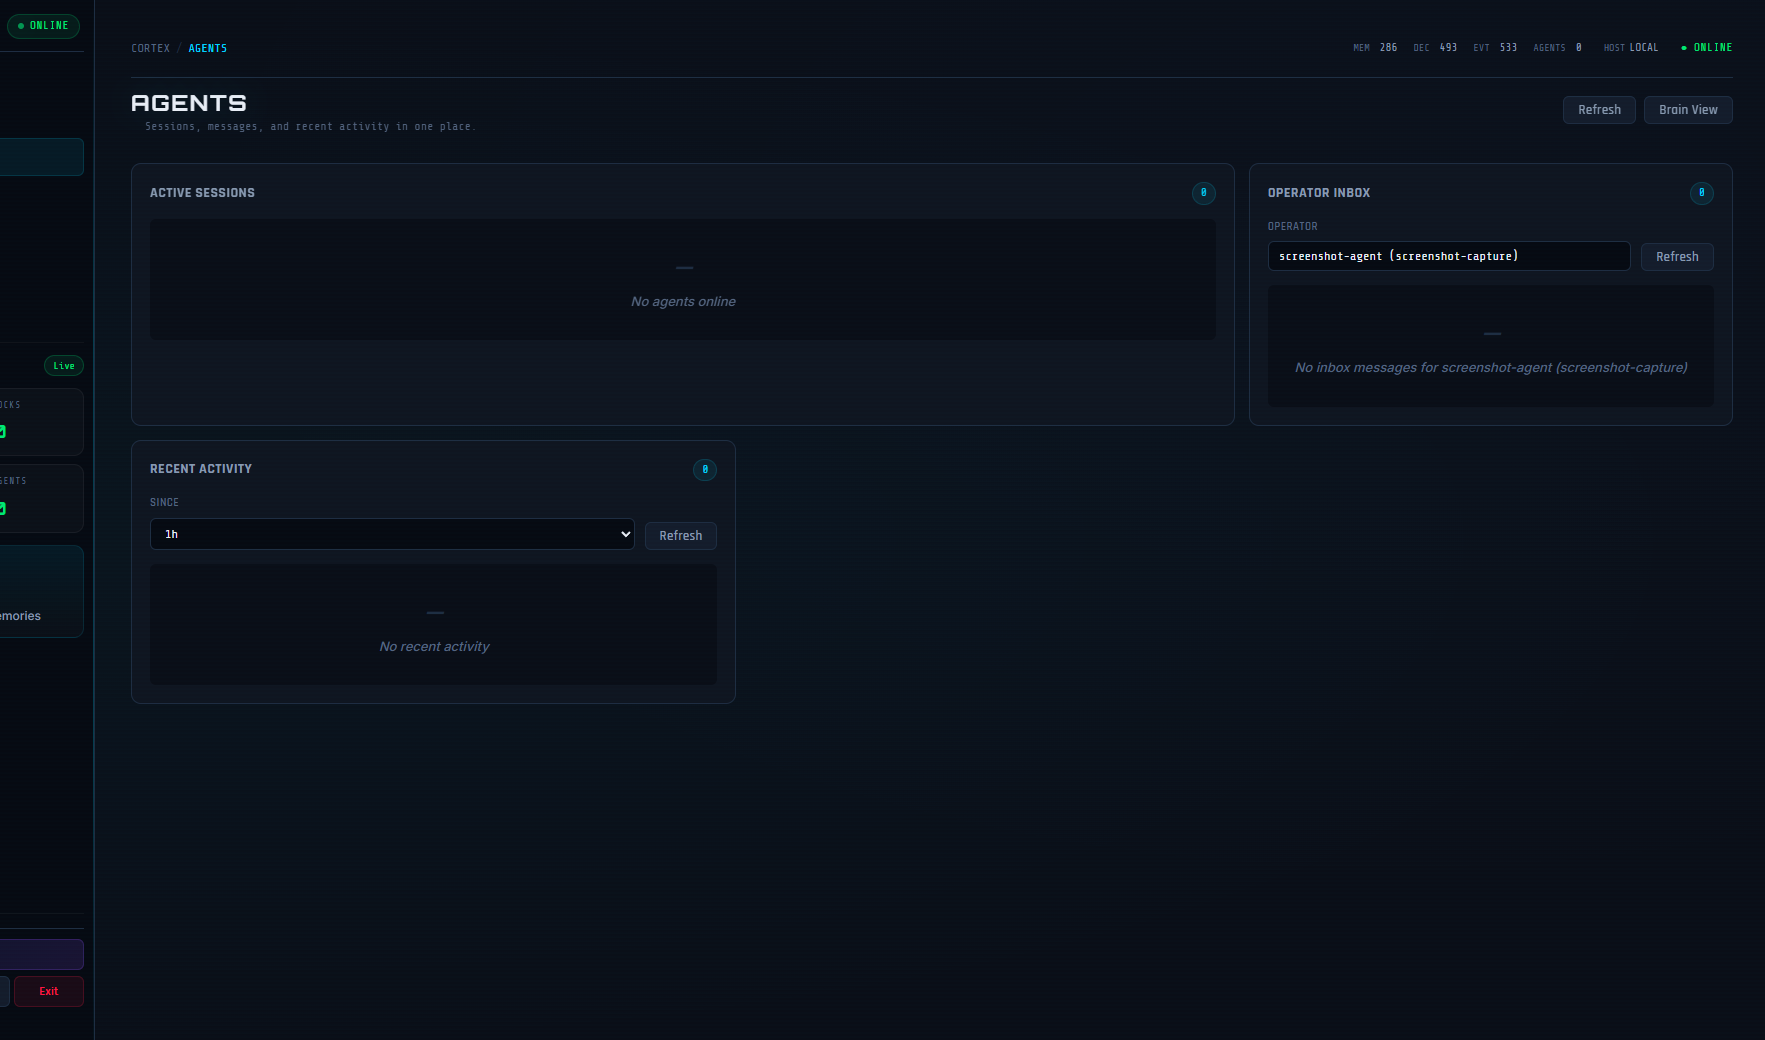
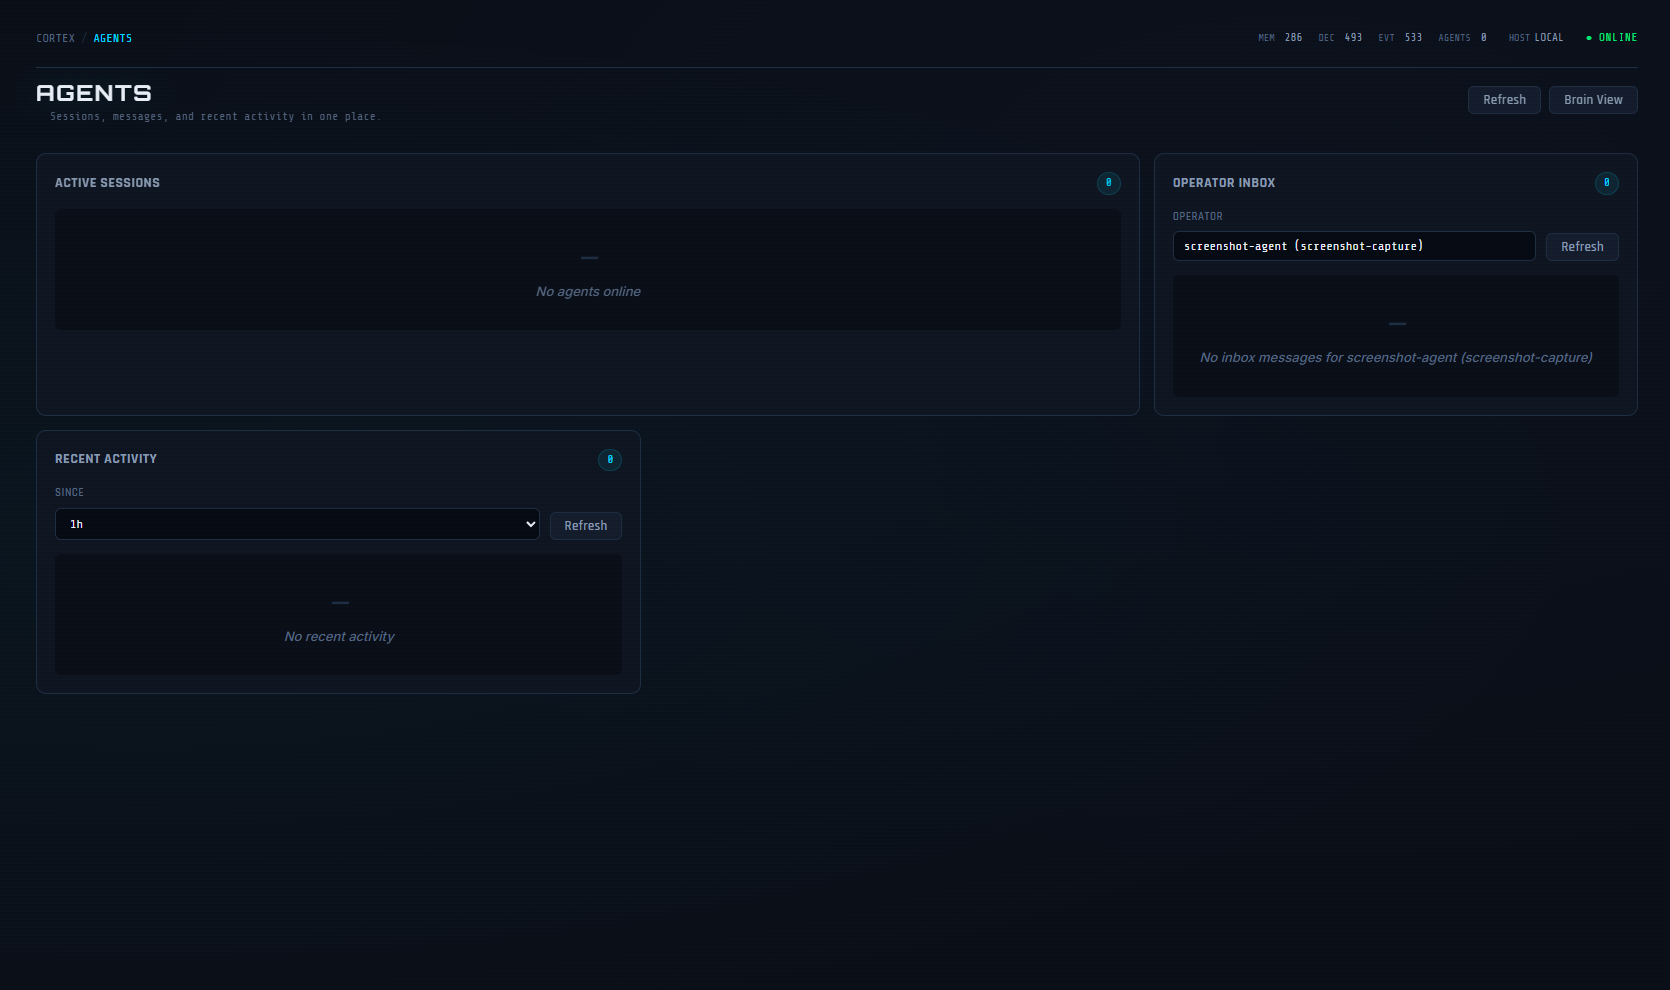
docs(readme): fix Monte Carlo crop, agents crop, benchmark version ref
- Monte Carlo: full width with Recall Quality panel, no text cutoff
- Agents: sidebar trimmed, focused on panel content
- Benchmark improvements planned for v0.6.0+ (not v0.5.x)

diff --git a/README.md b/README.md
@@ -106,7 +106,7 @@ Cortex recall quality is measured against a 20-query ground-truth dataset on eve
 
 </p>
 
-Two queries currently return the relevant result at position 2 instead of position 1. Retrieval quality is under active development — RRF weighting, reranking, and query expansion improvements are planned for v0.5.x. The v0.4.1 baseline started at 55% ground-truth precision; current retrieval (RRF + crystal families + synonym expansion) is a significant step forward, with more to come.
+Two queries currently return the relevant result at position 2 instead of position 1. Retrieval quality is under active development — RRF weighting, reranking, and query expansion improvements are planned for v0.6.0+. The v0.4.1 baseline started at 55% ground-truth precision; current retrieval (RRF + crystal families + synonym expansion) is a significant step forward, with more to come.
 
 [Raw Benchmark JSON](benchmarking/results/raw-recall-no-helper-dev-20260421-224217.json) · [Helper Benchmark JSON](benchmarking/results/helper-benchmark-cortex-http-20260419.json)
 
